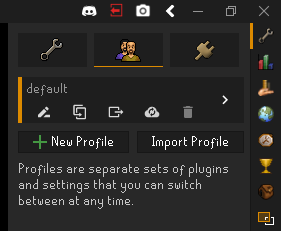
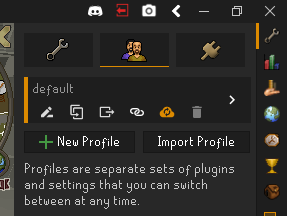
Add reference to setting profile as default for the current runescape account and that orange means enabled

diff --git a/General-Features.md b/General-Features.md
@@ -23,7 +23,18 @@ Profiles are separate sets of plugins and settings that can be switched between 
 
 ![](img/profiles.png)
 
-Below each profile are buttons to interact with them. From left to right, the buttons are: rename, duplicate, export to file, toggle cloud sync, and delete. Cloud sync is available when you are logged in to the client using a runelite.net account. Profiles can be dragged to re-order them.
+Below each profile are buttons to interact with them. Toggled buttons will turn orange to indicate they are enabled. From left to right, the buttons are: 
+ 1. Rename profile
+ 2. Duplicate profile
+ 3. Export profile
+ 4. Set profile as default for the current RuneScape account
+ * Must be logged in to the game using a RuneScape account
+ 5. Enable cloud sync
+ * Must be logged in to the client using a RuneLite.net account
+ 6. Delete profile
+ 
+Additionally, profiles can be dragged to re-order them.
+
 
 By default the profile loaded on startup will be the one that was most recently active. To load a specific profile on startup you can pass `--profile=<profilename>` to the launcher.
 
